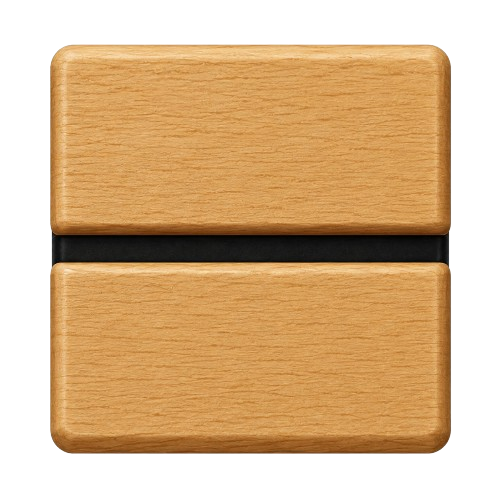
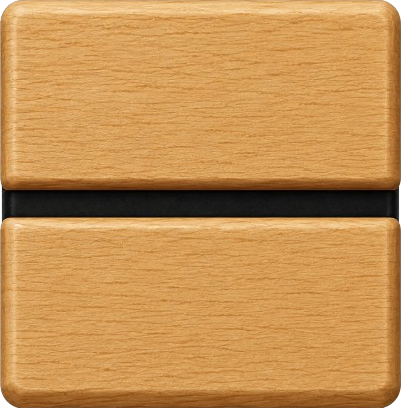
점수 증가 애니메이션 조정, brick 스프라이트 규격 변경, 코드 정리

diff --git a/Assets/Scripts/InputManager.cs b/Assets/Scripts/InputManager.cs
@@ -4,17 +4,15 @@ using UnityEngine.InputSystem;
 public class InputManager : MonoBehaviour
 {
     private InputActions _inputActions;
-
     private InputAction _pointAction;
     private InputAction _clickAction;
-
-    public static InputManager Instance { get; private set; }
 
     public Vector2 PointerScreenPosition => _pointAction.ReadValue<Vector2>();
     public bool IsPointerPressed => _clickAction.WasPressedThisFrame();
     public bool IsPointerHeld => _clickAction.IsPressed();
     public bool IsPointerReleased => _clickAction.WasReleasedThisFrame();
 
+    public static InputManager Instance { get; private set; }
     private void Awake()
     {
         if (Instance != null && Instance != this)

diff --git a/Assets/Scripts/BoardManager.cs b/Assets/Scripts/BoardManager.cs
@@ -119,10 +119,7 @@ public class BoardManager : MonoBehaviour
     {
         foreach (BrickController brick in _preparedBricks)
         {
-            if (brick != null)
-            {
-                return false;
-            }
+            if (brick != null) return false;
         }
 
         return true;

diff --git a/Assets/Scripts/Board.cs b/Assets/Scripts/Board.cs
@@ -248,10 +248,7 @@ public class Board : MonoBehaviour
     {
         foreach (BrickType brickType in brick.Types)
         {
-            if (brickType == type)
-            {
-                return true;
-            }
+            if (brickType == type) return true;
         }
 
         return false;
